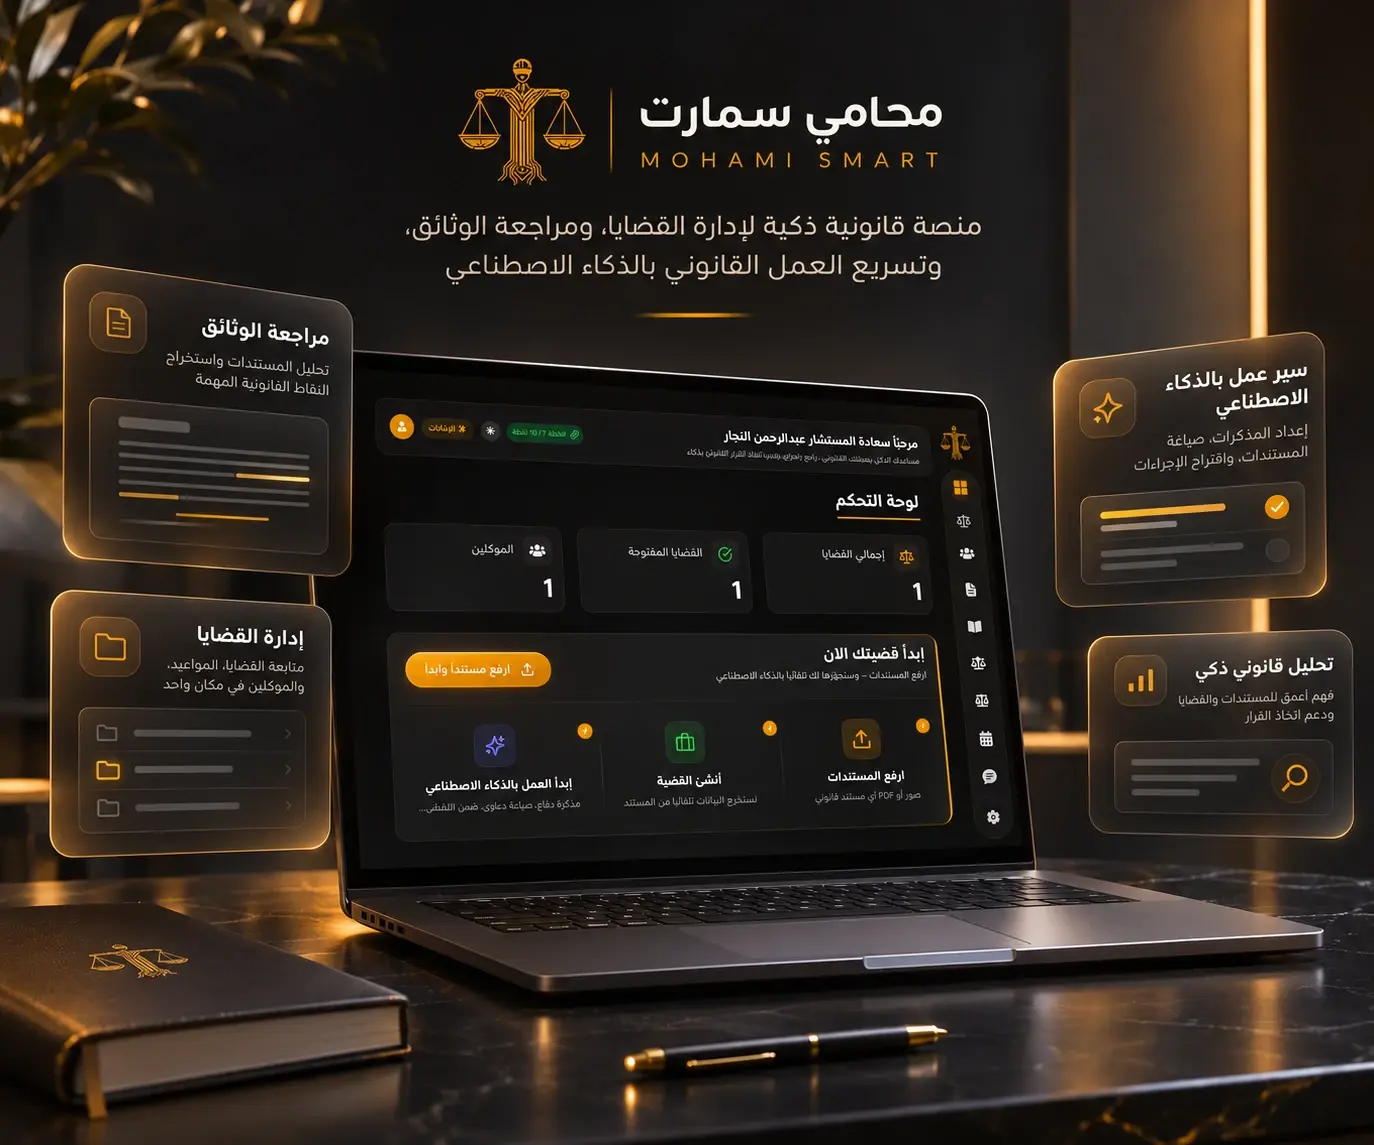
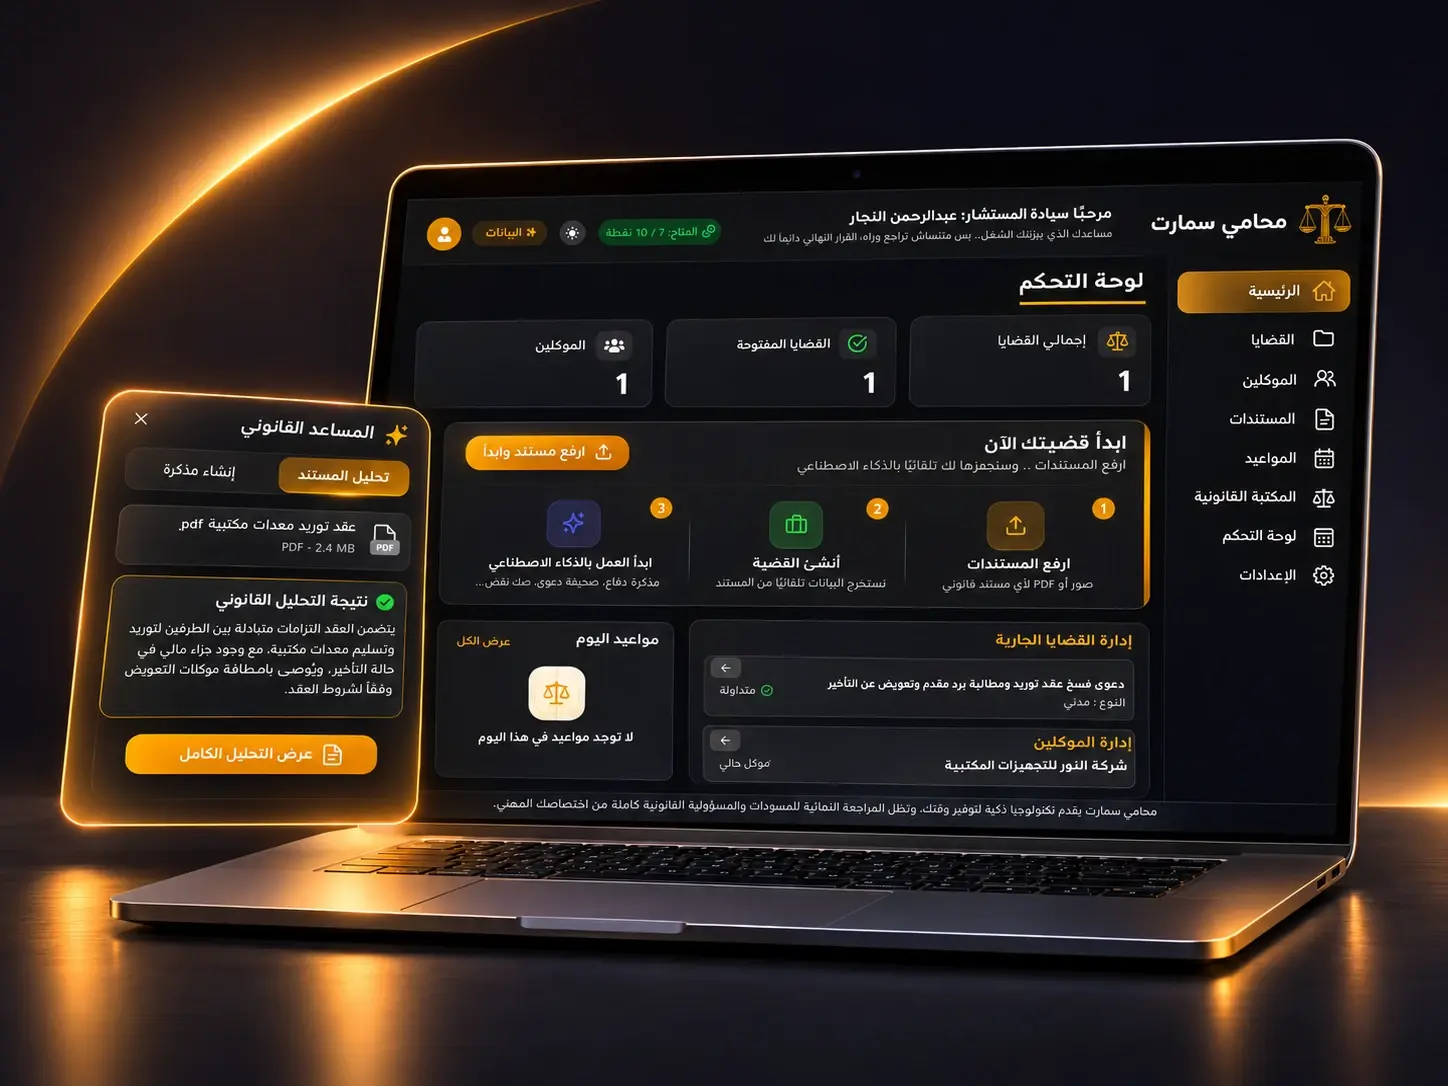
Use laptop mockups as the second Our Work card image for Albetar and Mohami Smart
Claude-Session: https://claude.ai/code/session_01CVAN2LKAReqHJvGiLAox5s

diff --git a/src/content/home.ts b/src/content/home.ts
@@ -124,11 +124,11 @@ export const CIRCLE_IMAGES = Array.from({ length: 12 }, (_, i) => `/images/circl
 const WORK_IMAGES: Project["images"][] = [
   [
     { src: "/images/projects/albetar/brand.webp", alt: "Betar Store logo" },
-    { src: "/images/projects/albetar/platform.webp", alt: "Albetar smart hardware store with the BETO AI assistant and component customization" },
+    { src: "/images/projects/albetar/platform.webp", alt: "Betar Store workstation builder with BETO recommending the right RAM and storage" },
   ],
   [
     { src: "/images/projects/mohami-smart/brand.webp", alt: "Mohami Smart logo, a golden scale of justice" },
-    { src: "/images/projects/mohami-smart/dashboard.webp", alt: "Mohami Smart legal dashboard for cases, documents and AI workflows" },
+    { src: "/images/projects/mohami-smart/dashboard.webp", alt: "Mohami Smart dashboard with the AI legal assistant analyzing a supply contract" },
   ],
   [
     { src: "/images/projects/business-operations/hrms.webp", alt: "BDCC HRMS, the human resources management system for Bin Delamah" },
